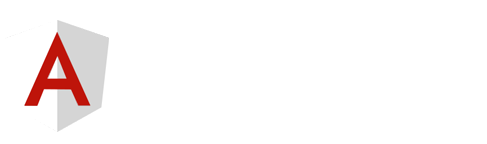
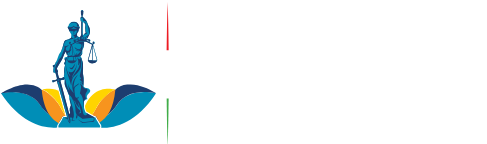
login finished

Changed region(s): [[0.0, 0.0833, 0.3388, 0.9167], [0.3388, 0.1389, 0.3696, 0.3611], [0.3388, 0.6944, 0.3696, 0.8889]]

diff --git a/Acceso/argon-dashboard-angular-master/src/app/pages/login/login.component.html b/Acceso/argon-dashboard-angular-master/src/app/pages/login/login.component.html
@@ -1,17 +1,17 @@
-<div class="header bg-gradient-danger py-7 py-lg-8">
+<div class="header fondo-login py-7 py-lg-8">
   <div class="container">
     <div class="header-body text-center mb-7">
       <div class="row justify-content-center">
         <div class="col-lg-5 col-md-6">
-          <h1 class="text-white">Welcome!</h1>
-          <p class="text-lead text-light">Use these awesome forms to login or create new account in your project for free.</p>
+          <h1 class="text-white">Bienvenido!</h1>
+          <p class="text-lead text-light">Para acceder al sistema de control de acceso de la <b> Fiscalía General del Estado de Durango</b> debe ingresar sus credenciales de acceso.</p>
         </div>
       </div>
     </div>
   </div>
   <div class="separator separator-bottom separator-skew zindex-100">
-    <svg x="0" y="0" viewBox="0 0 2560 100" preserveAspectRatio="none" version="1.1" xmlns="http://www.w3.org/2000/svg">
-      <polygon class="fill-default" points="2560 0 2560 100 0 100"></polygon>
+    <svg x="0" y="0" viewBox="0 0  5000 250" preserveAspectRatio="none" version="1.1" xmlns="http://www.w3.org/2000/svg">
+      <polygon class="fill-default" points="0 0 5000 250 0 250"></polygon>
     </svg>
   </div>
 </div>
@@ -20,22 +20,9 @@
   <div class="row justify-content-center">
     <div class="col-lg-5 col-md-7">
       <div class="card bg-secondary shadow border-0">
-        <div class="card-header bg-transparent pb-5">
-          <div class="text-muted text-center mt-2 mb-3"><small>Sign in with</small></div>
-          <div class="btn-wrapper text-center">
-            <a href="javascript:void(0)" class="btn btn-neutral btn-icon">
-              <span class="btn-inner--icon"><img src="../assets/img/icons/common/github.svg"></span>
-              <span class="btn-inner--text">Github</span>
-            </a>
-            <a href="javascript:void(0)" class="btn btn-neutral btn-icon">
-              <span class="btn-inner--icon"><img src="../assets/img/icons/common/google.svg"></span>
-              <span class="btn-inner--text">Google</span>
-            </a>
-          </div>
-        </div>
         <div class="card-body px-lg-5 py-lg-5">
           <div class="text-center text-muted mb-4">
-            <small>Or sign in with credentials</small>
+            <small>Iniciar sesión en <b>control de acceso</b></small>
           </div>
           <form role="form">
             <div class="form-group mb-3">
@@ -43,7 +30,7 @@
                 <div class="input-group-prepend">
                   <span class="input-group-text"><i class="ni ni-email-83"></i></span>
                 </div>
-                <input class="form-control" placeholder="Email" type="email">
+                <input class="form-control" placeholder="Correo" type="correo">
               </div>
             </div>
             <div class="form-group">
@@ -51,27 +38,19 @@
                 <div class="input-group-prepend">
                   <span class="input-group-text"><i class="ni ni-lock-circle-open"></i></span>
                 </div>
-                <input class="form-control" placeholder="Password" type="password">
+                <input class="form-control" placeholder="Clave" type="clave">
               </div>
             </div>
             <div class="custom-control custom-control-alternative custom-checkbox">
               <input class="custom-control-input" id=" customCheckLogin" type="checkbox">
               <label class="custom-control-label" for=" customCheckLogin">
-                <span class="text-muted">Remember me</span>
+                <span class="text-muted">Recordar Usuario</span>
               </label>
             </div>
             <div class="text-center">
-              <button type="button" class="btn btn-primary my-4">Sign in</button>
+              <button type="button" class="btn btn-primary my-4">Ingresar</button>
             </div>
           </form>
-        </div>
-      </div>
-      <div class="row mt-3">
-        <div class="col-6">
-          <a href="javascript:void(0)" class="text-light"><small>Forgot password?</small></a>
-        </div>
-        <div class="col-6 text-right">
-          <a href="javascript:void(0)" class="text-light"><small>Create new account</small></a>
         </div>
       </div>
     </div>

diff --git a/Acceso/argon-dashboard-angular-master/src/app/layouts/auth-layout/auth-layout.component.html b/Acceso/argon-dashboard-angular-master/src/app/layouts/auth-layout/auth-layout.component.html
@@ -1,8 +1,8 @@
 <div class="main-content">
   <nav class="navbar navbar-top navbar-horizontal navbar-expand-md navbar-dark">
     <div class="container px-4">
-      <a class="navbar-brand" routerLinkActive="active" [routerLink]="['/dashboard']">
-        <img src="assets/img/brand/argon-white.png" />
+      <a class="navbar-brand toplogo" routerLinkActive="active" [routerLink]="['/dashboard']">
+        <img class="imagen" src="assets/img/brand/argon-white.png"/>
       </a>
       <button class="navbar-toggler" type="button" (click)="isCollapsed=!isCollapsed"
          aria-controls="sidenav-collapse-main">
@@ -28,27 +28,9 @@
         <!-- Navbar items -->
         <ul class="navbar-nav ml-auto">
           <li class="nav-item">
-            <a class="nav-link nav-link-icon" routerLinkActive="active" [routerLink]="['/dashboard']">
-              <i class="ni ni-planet"></i>
-              <span class="nav-link-inner--text">Dashboard</span>
-            </a>
-          </li>
-          <li class="nav-item">
-            <a class="nav-link nav-link-icon" routerLinkActive="active" [routerLink]="['/register']">
-              <i class="ni ni-circle-08"></i>
-              <span class="nav-link-inner--text">Register</span>
-            </a>
-          </li>
-          <li class="nav-item">
             <a class="nav-link nav-link-icon" routerLinkActive="active" [routerLink]="['/login']">
               <i class="ni ni-key-25"></i>
-              <span class="nav-link-inner--text">Login</span>
-            </a>
-          </li>
-          <li class="nav-item">
-            <a class="nav-link nav-link-icon" routerLinkActive="active" [routerLink]="['/user-profile']">
-              <i class="ni ni-single-02"></i>
-              <span class="nav-link-inner--text">Profile</span>
+              <span class="nav-link-inner--text">Iniciar sesión</span>
             </a>
           </li>
         </ul>
@@ -62,19 +44,19 @@
     <div class="row align-items-center justify-content-xl-between">
       <div class="col-xl-6">
         <div class="copyright text-center text-xl-left text-muted">
-          &copy; {{ test | date: "yyyy" }} <a href="https://www.creative-tim.com?ref=ada-footer-auth-layout" class="font-weight-bold ml-1" target="_blank">Creative Tim</a>
+            &copy; {{ test | date: "yyyy" }} <a href="http://fiscalia.durango.gob.mx/" class="font-weight-bold ml-1" target="_blank">Fiscalía General del Estado de Durango</a>
         </div>
       </div>
       <div class="col-xl-6">
         <ul class="nav nav-footer justify-content-center justify-content-xl-end">
           <li class="nav-item">
-            <a href="https://www.creative-tim.com?ref=ada-footer-auth-layout" class="nav-link" target="_blank">Creative Tim</a>
+            <a href="http://fiscalia.durango.gob.mx/avisos-de-privacidad/" class="nav-link" target="_blank">Avisos de Privacidad</a>
           </li>
           <li class="nav-item">
-            <a href="https://www.creative-tim.com/presentation?ref=ada-footer-auth-layout" class="nav-link" target="_blank">About Us</a>
+            <a href="https://www.facebook.com/DgoFiscalia/" class="nav-link" target="_blank">Facebook</a>
           </li>
           <li class="nav-item">
-            <a href="http://blog.creative-tim.com?ref=ada-footer-auth-layout" class="nav-link" target="_blank">Blog</a>
+            <a href="https://twitter.com/DgoFiscalia" class="nav-link" target="_blank">Twitter</a>
           </li>
           <li class="nav-item">
             <a href="https://github.com/creativetimofficial/argon-dashboard-angular/blob/master/LICENSE.md" class="nav-link" target="_blank">MIT License</a>

diff --git a/Acceso/argon-dashboard-angular-master/src/app/components/footer/footer.component.html b/Acceso/argon-dashboard-angular-master/src/app/components/footer/footer.component.html
@@ -2,19 +2,19 @@
   <div class="row align-items-center justify-content-xl-between">
     <div class="col-xl-6">
       <div class="copyright text-center text-xl-left text-muted">
-        &copy; {{ test | date: "yyyy" }} <a href="https://www.creative-tim.com?ref=ada-footer-admin-layout" class="font-weight-bold ml-1" target="_blank">Creative Tim</a>
+        &copy; {{ test | date: "yyyy" }} <a href="http://fiscalia.durango.gob.mx/" class="font-weight-bold ml-1" target="_blank">Fiscalía General del Estado de Durango</a>
       </div>
     </div>
     <div class="col-xl-6">
       <ul class="nav nav-footer justify-content-center justify-content-xl-end">
         <li class="nav-item">
-          <a href="https://www.creative-tim.com?ref=ada-footer-admin-layout" class="nav-link" target="_blank">Creative Tim</a>
+          <a href="http://fiscalia.durango.gob.mx/avisos-de-privacidad/" class="nav-link" target="_blank">Avisos de Privacidad</a>
         </li>
         <li class="nav-item">
-          <a href="https://www.creative-tim.com/presentation?ref=ada-footer-admin-layout" class="nav-link" target="_blank">About Us</a>
+          <a href="https://www.facebook.com/DgoFiscalia/" class="nav-link" target="_blank">Facebook</a>
         </li>
         <li class="nav-item">
-          <a href="http://blog.creative-tim.com?ref=ada-footer-admin-layout" class="nav-link" target="_blank">Blog</a>
+          <a href="https://twitter.com/DgoFiscalia" class="nav-link" target="_blank">Twitter</a>
         </li>
         <li class="nav-item">
           <a href="https://github.com/creativetimofficial/argon-dashboard-angular/blob/master/LICENSE.md" class="nav-link" target="_blank">MIT License</a>

diff --git a/Acceso/argon-dashboard-angular-master/src/app/components/sidebar/sidebar.component.ts b/Acceso/argon-dashboard-angular-master/src/app/components/sidebar/sidebar.component.ts
@@ -13,8 +13,7 @@ export const ROUTES: RouteInfo[] = [
     { path: '/maps', title: 'Maps',  icon:'ni-pin-3 text-orange', class: '' },
     { path: '/user-profile', title: 'User profile',  icon:'ni-single-02 text-yellow', class: '' },
     { path: '/tables', title: 'Tables',  icon:'ni-bullet-list-67 text-red', class: '' },
-    { path: '/login', title: 'Login',  icon:'ni-key-25 text-info', class: '' },
-    { path: '/register', title: 'Register',  icon:'ni-circle-08 text-pink', class: '' }
+    { path: '/login', title: 'Login',  icon:'ni-key-25 text-info', class: '' }
 ];
 
 @Component({

diff --git a/Acceso/argon-dashboard-angular-master/src/app/layouts/auth-layout/auth-layout.module.ts b/Acceso/argon-dashboard-angular-master/src/app/layouts/auth-layout/auth-layout.module.ts
@@ -6,7 +6,7 @@ import { AuthLayoutRoutes } from './auth-layout.routing';
 import { NgbModule } from '@ng-bootstrap/ng-bootstrap';
 
 import { LoginComponent } from '../../pages/login/login.component';
-import { RegisterComponent } from '../../pages/register/register.component';
+
 @NgModule({
   imports: [
     CommonModule,
@@ -15,8 +15,7 @@ import { RegisterComponent } from '../../pages/register/register.component';
     // NgbModule
   ],
   declarations: [
-    LoginComponent,
-    RegisterComponent
+    LoginComponent
   ]
 })
 export class AuthLayoutModule { }

diff --git a/Acceso/argon-dashboard-angular-master/src/app/layouts/auth-layout/auth-layout.routing.ts b/Acceso/argon-dashboard-angular-master/src/app/layouts/auth-layout/auth-layout.routing.ts
@@ -1,9 +1,7 @@
 import { Routes } from '@angular/router';
 
 import { LoginComponent } from '../../pages/login/login.component';
-import { RegisterComponent } from '../../pages/register/register.component';
 
 export const AuthLayoutRoutes: Routes = [
-    { path: 'login',          component: LoginComponent },
-    { path: 'register',       component: RegisterComponent }
+    { path: 'login',          component: LoginComponent }
 ];

diff --git a/Acceso/argon-dashboard-angular-master/src/app/layouts/auth-layout/auth-layout.component.scss b/Acceso/argon-dashboard-angular-master/src/app/layouts/auth-layout/auth-layout.component.scss
@@ -1,0 +1,14 @@
+
+:root {--default: #FFFFFF;}
+.navbar-brand {
+    width :30%;
+}
+
+.toplogo img{
+    width : 100%;
+    height: 100%;
+}
+
+.collapse{
+    width : 70%;
+}

diff --git a/Acceso/argon-dashboard-angular-master/src/app/pages/login/login.component.scss b/Acceso/argon-dashboard-angular-master/src/app/pages/login/login.component.scss
@@ -1,0 +1,5 @@
+:root {--default: #FFFFFF;}
+.fondo-login{
+   background: url(../../../assets/img/theme/fondo.jpg);
+   background-size: cover;
+}

diff --git a/Acceso/argon-dashboard-angular-master/src/app/app.component.scss b/Acceso/argon-dashboard-angular-master/src/app/app.component.scss
@@ -1,0 +1,3 @@
+body {
+    background-color: green;
+  }
